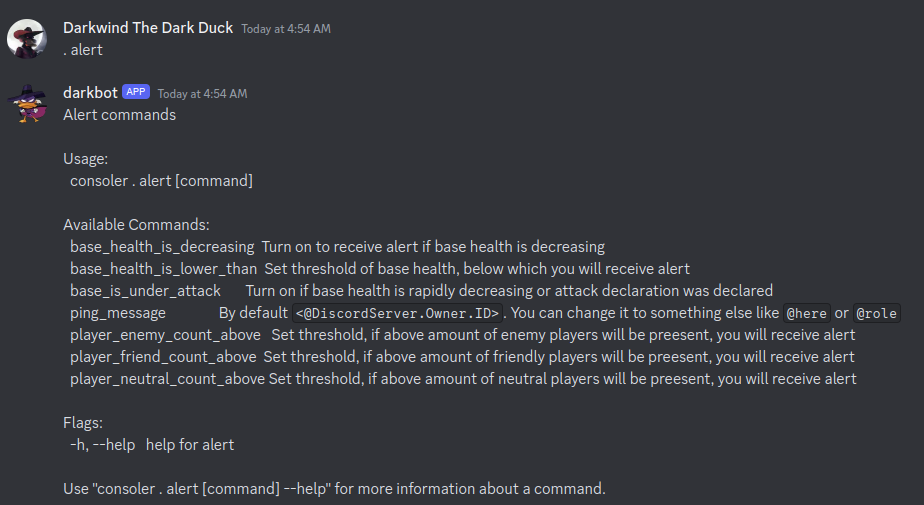
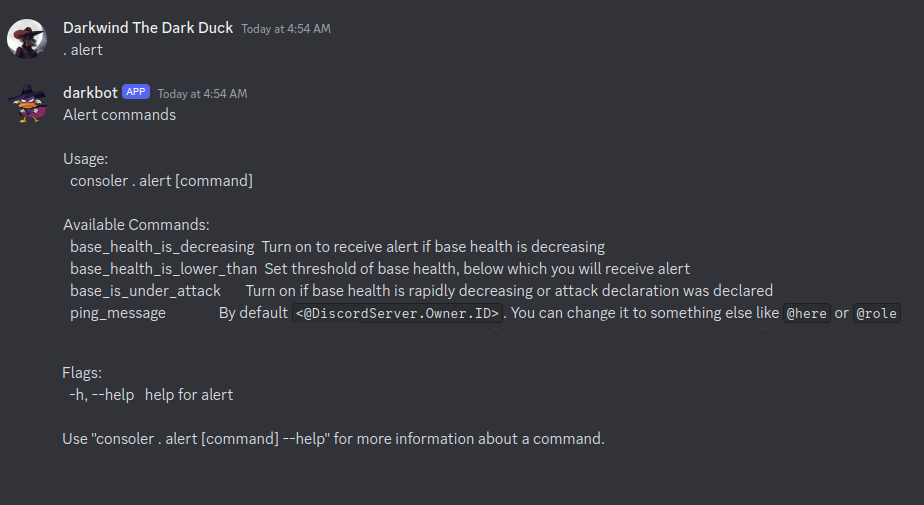
refactor: clean up documentation from player view things

Changed region(s): [[0.0606, 0.6535, 0.9394, 0.802], [0.0606, 0.8317, 0.6667, 0.8911], [0.0606, 0.9505, 0.6667, 0.9802]]

diff --git a/README.md b/README.md
@@ -17,13 +17,11 @@
 # Project Description for devs
 
 - This project is a discord bot **Darkbot3** for open source game community [Freelancer Discovery](https://discoverygc.com/)
-- It implements Discord bot to track player bases, players themselves and forum posting with notifications to Discord.
-- The logic of it: User connects darkbot to some discord channel, and sets settings which space bases, player tags or space systems to track. Darkbot repeatedly updates information to discord channel
+- It implements Discord bot to track player owned bases and forum posting with notifications to Discord.
+- The logic of it: User connects darkbot to some discord channel, and sets settings which space bases, forum threads or sections to track. Darkbot repeatedly updates information to discord channel
 - project saves ready for deployment docker images [at docker hub](https://hub.docker.com/repository/docker/darkwind8/darkbot/general), see [settings here](https://github.com/darklab8/fl-darkbot/blob/master/tf/modules/production), which are invoking [this configuration](https://github.com/darklab8/fl-darkbot/blob/master/tf/modules/darkbot)
 
 ![base tracking table](docs/index_assets/base_render2.png)
-
-![player tracking table](docs/index_assets/player_render2.png)
 
 ![forum tracking notifications](docs/index_assets/forum_tracking.png)
 

diff --git a/docs/index.md b/docs/index.md
@@ -2,14 +2,14 @@
 
 ![logo](./index_assets/fulllogo.png)
 
-- It implements Discord bot to track player bases, players themselves and forum posting with notifications to Discord.
-- The logic of it: User connects darkbot to some discord channel, and sets settings which space bases, player tags or space systems to track. Darkbot repeatedly updates information to discord channel
+- It implements Discord bot to track player owned bases, and forum posting with notifications to Discord.
+- The logic of it: User connects darkbot to some discord channel, and sets settings which space bases, forum threads or sections to track.
+Darkbot repeatedly updates information to discord channel
 
 # Features
 
 - Adding player bases for tracking in discord channel
-- Adding players for tracking based on tag in nickname or star systems / regions to track
-- Adding configurable alert triggers to base, player of forum tracking
+- Adding configurable alert triggers to base, or forum tracking
 - Adding forum post for tracking
 - Writes amount of players at server in its status
 
